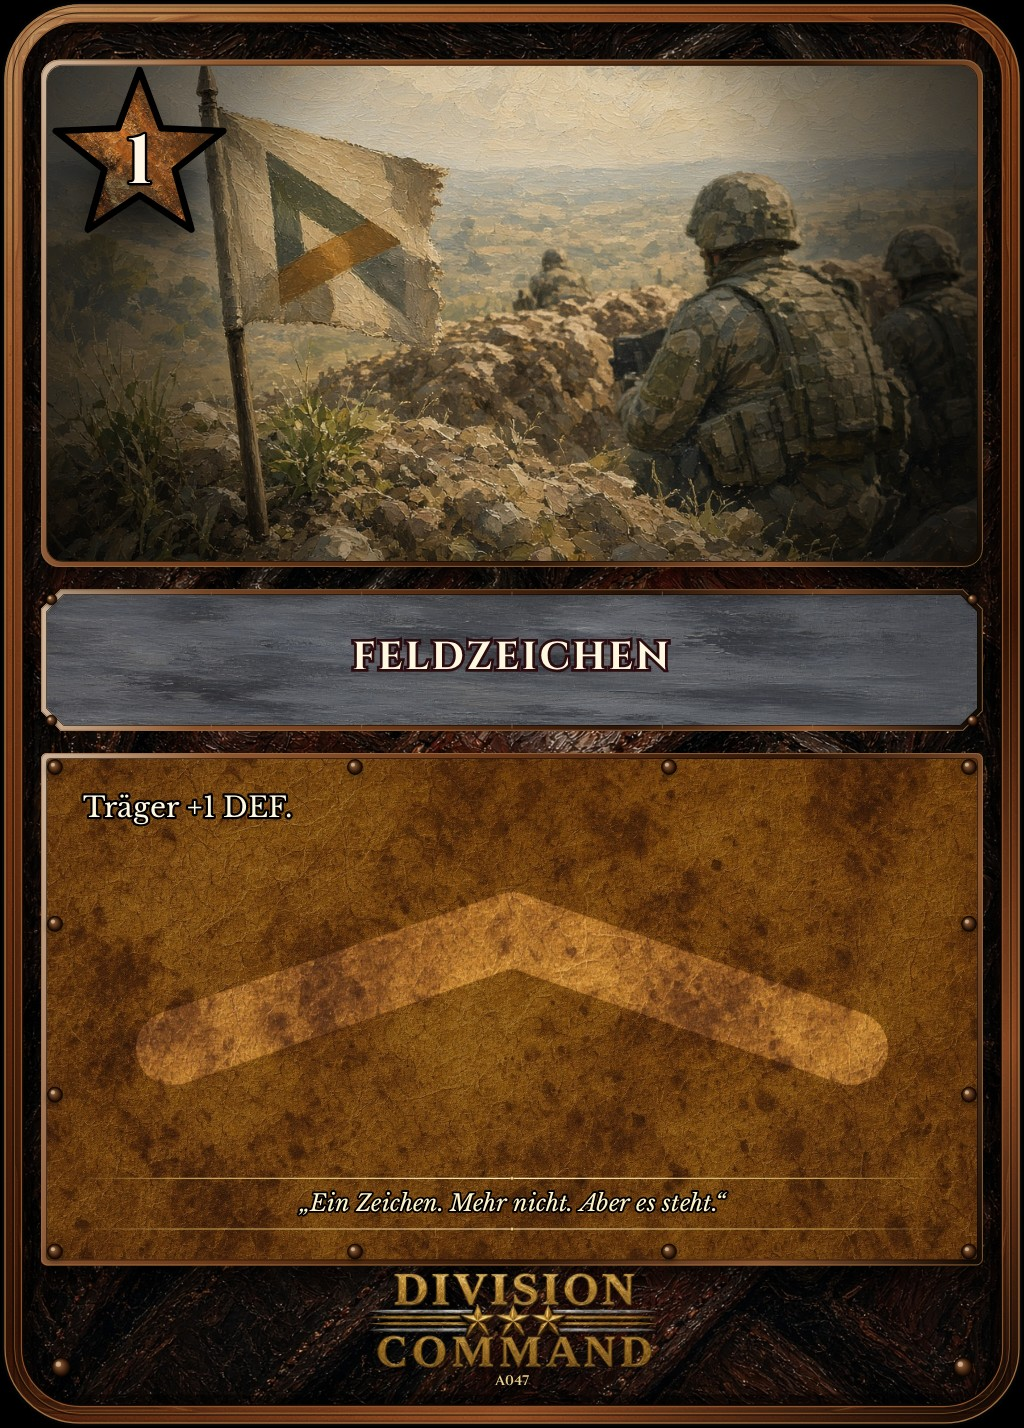
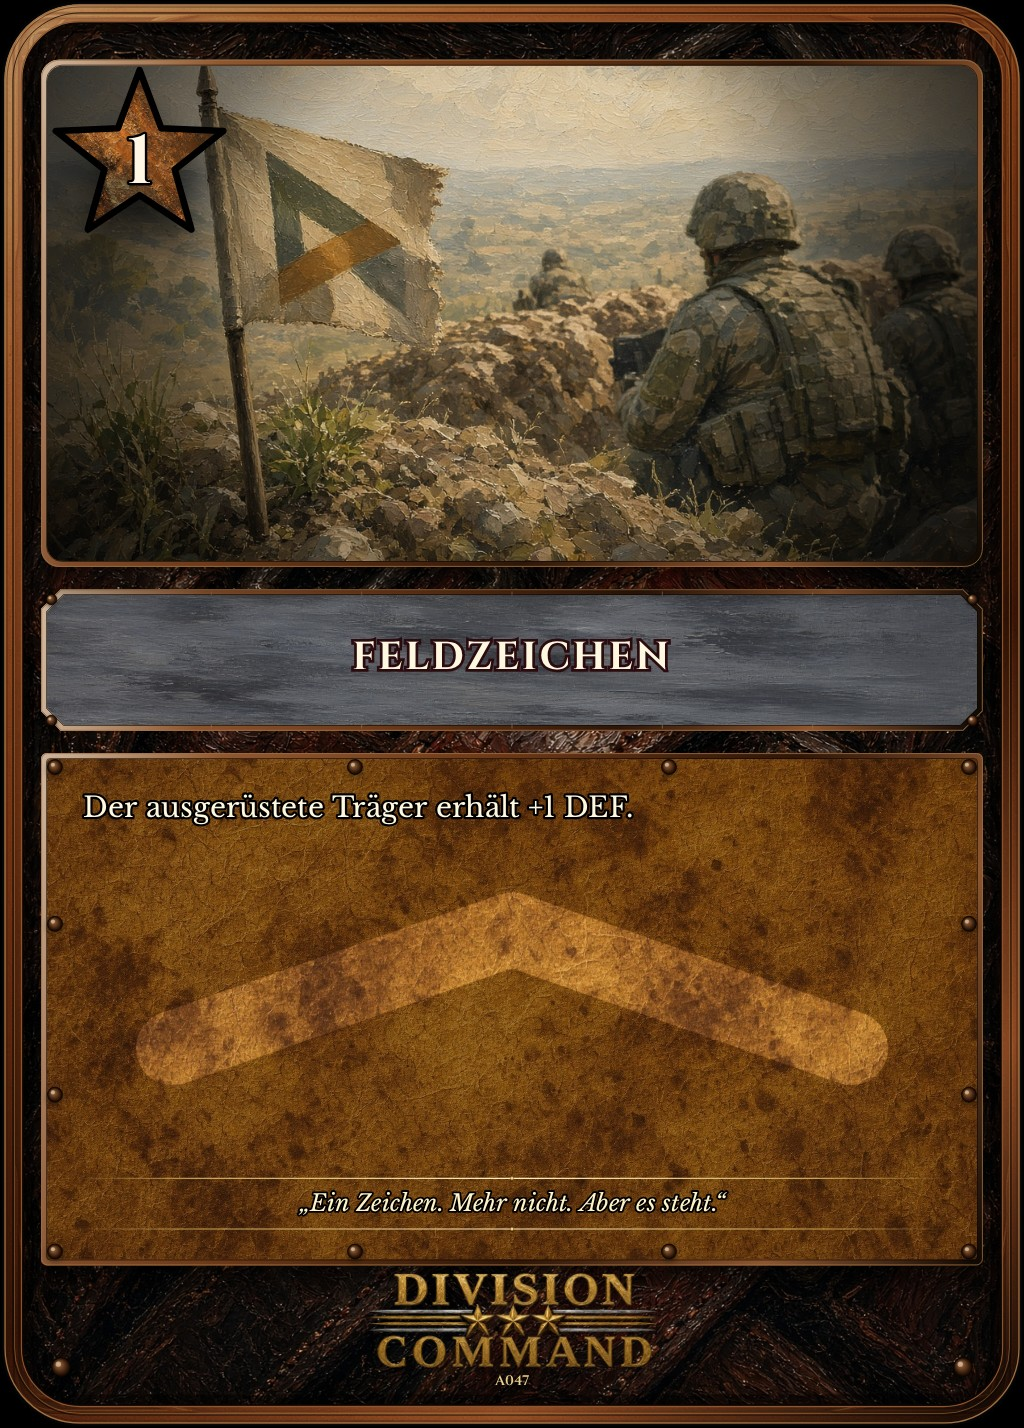
Feldzeichen-Text korrigiert: Der ausgerüstete Träger erhält +1 DEF

Changed region(s): [[0.0625, 0.5546, 0.625, 0.5854]]

diff --git a/Division_Command_0.32c/web/js/data/sets/alpha/ausruestung.js b/Division_Command_0.32c/web/js/data/sets/alpha/ausruestung.js
@@ -205,7 +205,7 @@ window.DC_SET_ALPHA["Ausrüstung"] = [
     "atk": null,
     "def": null,
     "tags": ["ausruestung"],
-    "text": "Ausgerüsteter Träger erhält +1 DEF.",
+    "text": "Der ausgerüstete Träger erhält +1 DEF.",
     "effects": [{"code": "CARRIER_DEF", "param": {"def": 1}}],
     "flavor": "Ein Zeichen. Mehr nicht. Aber es steht.",
     "image": "Feldzeichen.jpg",
